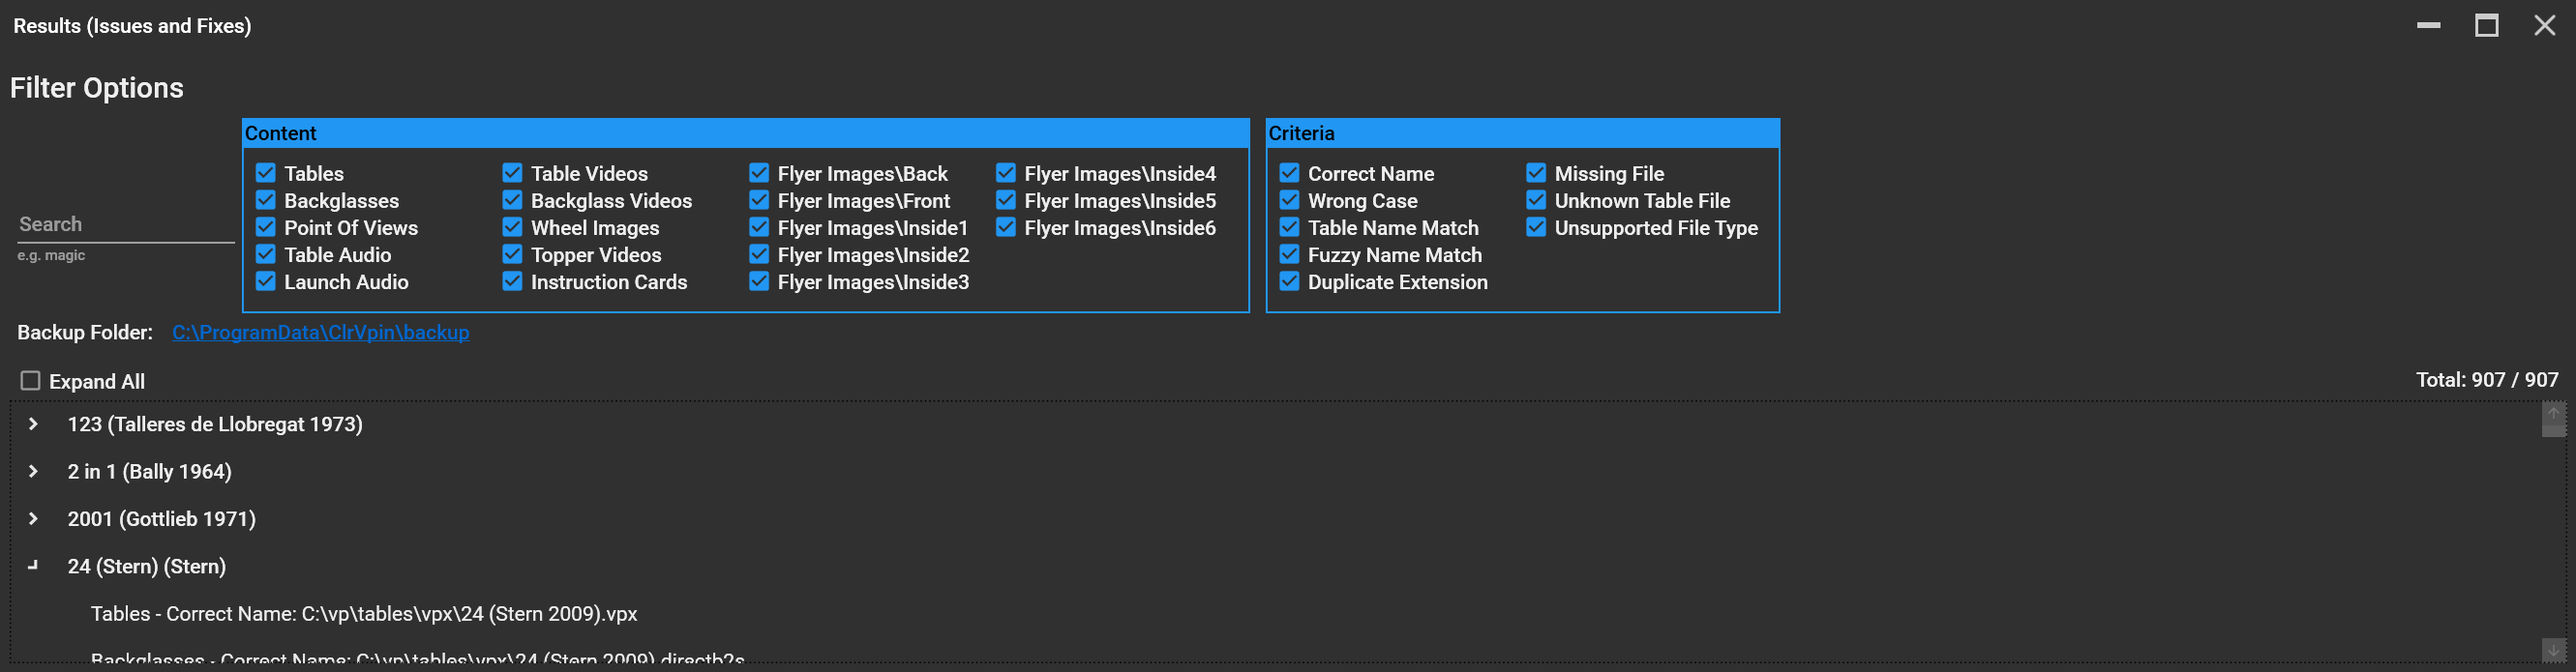
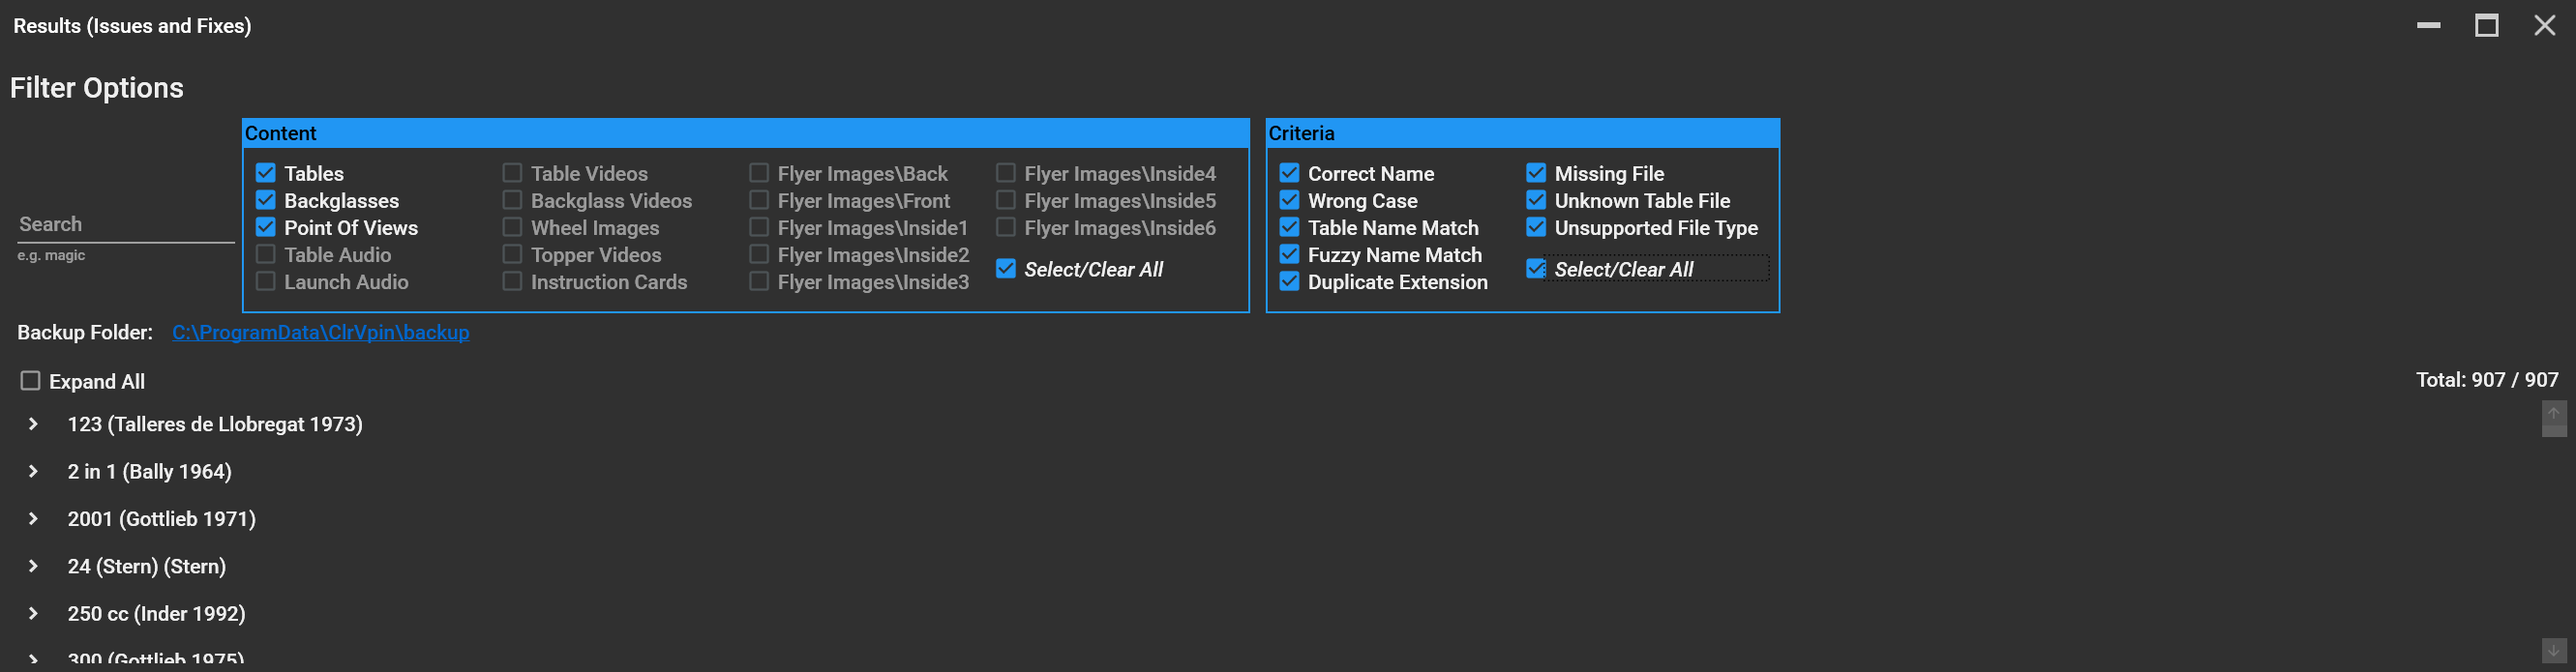
results: added select/clear all checkboxes

diff --git a/ClrVpin/Shared/Results.xaml b/ClrVpin/Shared/Results.xaml
@@ -10,7 +10,8 @@
 
   <ResourceDictionary.MergedDictionaries>
     <ResourceDictionary Source="pack://application:,,,/MaterialDesignThemes.Wpf;component/Themes/MaterialDesignTheme.Defaults.xaml" />
-    <ResourceDictionary Source="\Controls\Styles.xaml" />
+    <ResourceDictionary Source="/Controls/Styles.xaml" />
+    <ResourceDictionary Source="/Controls/Templates.xaml" />
   </ResourceDictionary.MergedDictionaries>
 
   <ContextMenu x:Key="HitGameContentContextMenu" d:DataContext="{d:DesignInstance models:Hit }">
@@ -65,15 +66,14 @@
             <ItemsControl ItemsSource="{Binding AllContentFeatureTypesView}" BorderThickness="5" Height="110">
               <ItemsControl.ItemTemplate>
                 <DataTemplate DataType="models:FeatureType">
-                  <!-- fixed width so they align nicely -->
-                  <CheckBox Margin="0" Width="170" Content="{Binding Description}" IsChecked="{Binding IsActive}" IsEnabled="{Binding IsSupported}" Command="{Binding SelectedCommand}" />
+                  <ContentControl ContentTemplate="{StaticResource FeatureTypeTemplate}" Content="{Binding}" />
                 </DataTemplate>
               </ItemsControl.ItemTemplate>
 
               <!-- scroll vertically then horizontally -->
               <ItemsControl.ItemsPanel>
                 <ItemsPanelTemplate>
-                  <WrapPanel Orientation="Vertical" />
+                  <WrapPanel Orientation="Vertical" ItemWidth="170"/>
                 </ItemsPanelTemplate>
               </ItemsControl.ItemsPanel>
             </ItemsControl>
@@ -83,15 +83,14 @@
             <ItemsControl ItemsSource="{Binding AllHitFeatureTypesView}" BorderThickness="5" Height="110">
               <ItemsControl.ItemTemplate>
                 <DataTemplate DataType="models:FeatureType">
-                  <!-- fixed width so they align nicely -->
-                  <CheckBox Margin="0" Width="170" Content="{Binding Description}" IsChecked="{Binding IsActive}" IsEnabled="{Binding IsSupported}" Command="{Binding SelectedCommand}" />
+                  <ContentControl ContentTemplate="{StaticResource FeatureTypeTemplate}" Content="{Binding}" />
                 </DataTemplate>
               </ItemsControl.ItemTemplate>
             
               <!-- scroll vertically then horizontally -->
               <ItemsControl.ItemsPanel>
                 <ItemsPanelTemplate>
-                  <WrapPanel Orientation="Vertical" />
+                  <WrapPanel Orientation="Vertical" ItemWidth="170" />
                 </ItemsPanelTemplate>
               </ItemsControl.ItemsPanel>
             </ItemsControl>

diff --git a/ClrVpin/Rebuilder/RebuilderResultsViewModel.cs b/ClrVpin/Rebuilder/RebuilderResultsViewModel.cs
@@ -42,31 +42,31 @@ namespace ClrVpin.Rebuilder
         {
             // show all content types, but assign enabled and active based on the rebuilder configuration
             // - rebuilder only supports one destination content type, but display them all as a list for consistency with ScannerResultsViewModel
-            var filteredContentTypes = Settings.GetFixableContentTypes().Select(contentType => new FeatureType((int)contentType.Enum)
+            var featureTypes = Settings.GetFixableContentTypes().Select(contentType => new FeatureType((int)contentType.Enum)
             {
                 Description = contentType.Description,
                 Tip = contentType.Tip,
                 IsSupported = false, // don't allow user to deselect the destination type
                 IsActive = Settings.GetSelectedDestinationContentType().Enum == contentType.Enum,
                 SelectedCommand = new ActionCommand(UpdateHitsView)
-            });
+            }).ToList();
 
-            return filteredContentTypes.ToList();
+            return featureTypes.Concat(new[] { FeatureType.CreateSelectAll(featureTypes) }).ToList();
         }
 
         protected override IList<FeatureType> CreateAllHitFeatureTypes()
         {
             // show all hit types, but assign enabled and active based on the rebuilder configuration
             // - valid hits are also visible, enabled by default since these files are copied across without any file name fixing
-            var filteredContentTypes = StaticSettings.AllHitTypes.Select(hitType => new FeatureType((int)hitType.Enum)
+            var featureTypes = StaticSettings.AllHitTypes.Select(hitType => new FeatureType((int)hitType.Enum)
             {
                 Description = hitType.Description,
                 IsSupported = Settings.Rebuilder.SelectedMatchTypes.Contains(hitType.Enum) || hitType.Enum == HitTypeEnum.CorrectName,
                 IsActive = Settings.Rebuilder.SelectedMatchTypes.Contains(hitType.Enum),
                 SelectedCommand = new ActionCommand(UpdateHitsView)
-            });
+            }).ToList();
 
-            return filteredContentTypes.ToList();
+            return featureTypes.Concat(new[] { FeatureType.CreateSelectAll(featureTypes) }).ToList();
         }
     }
 }

diff --git a/ClrVpin/Scanner/ScannerResultsViewModel.cs b/ClrVpin/Scanner/ScannerResultsViewModel.cs
@@ -40,7 +40,7 @@ namespace ClrVpin.Scanner
         protected override IList<FeatureType> CreateAllContentFeatureTypes()
         {
             // show all content types, but assign enabled and active based on the scanner configuration
-            var filteredContentTypes = Settings.GetFixableContentTypes().Select(contentType => new FeatureType((int)contentType.Enum)
+            var featureTypes = Settings.GetFixableContentTypes().Select(contentType => new FeatureType((int)contentType.Enum)
             {
                 Description = contentType.Description,
                 Tip = contentType.Tip,
@@ -49,24 +49,24 @@ namespace ClrVpin.Scanner
                 IsSupported = Settings.Scanner.SelectedCheckContentTypes.Contains(contentType.Description),
                 IsActive = Settings.Scanner.SelectedCheckContentTypes.Contains(contentType.Description),
                 SelectedCommand = new ActionCommand(UpdateHitsView)
-            });
+            }).ToList();
 
-            return filteredContentTypes.ToList();
+            return featureTypes.Concat(new[] { FeatureType.CreateSelectAll(featureTypes) }).ToList();
         }
 
         protected override IList<FeatureType> CreateAllHitFeatureTypes()
         {
             // show all hit types, but assign enabled and active based on the scanner configuration
             // - for completeness the valid hits are also visible, but disabled by default since no fixes were required
-            var filteredContentTypes = StaticSettings.AllHitTypes.Select(hitType => new FeatureType((int)hitType.Enum)
+            var featureTypes = StaticSettings.AllHitTypes.Select(hitType => new FeatureType((int)hitType.Enum)
             {
                 Description = hitType.Description,
                 IsSupported = Settings.Scanner.SelectedCheckHitTypes.Contains(hitType.Enum) || hitType.Enum == HitTypeEnum.CorrectName,
                 IsActive = Settings.Scanner.SelectedCheckHitTypes.Contains(hitType.Enum),
                 SelectedCommand = new ActionCommand(UpdateHitsView)
-            });
+            }).ToList();
 
-            return filteredContentTypes.ToList();
+            return featureTypes.Concat(new[] { FeatureType.CreateSelectAll(featureTypes) }).ToList();
         }
     }
 }
